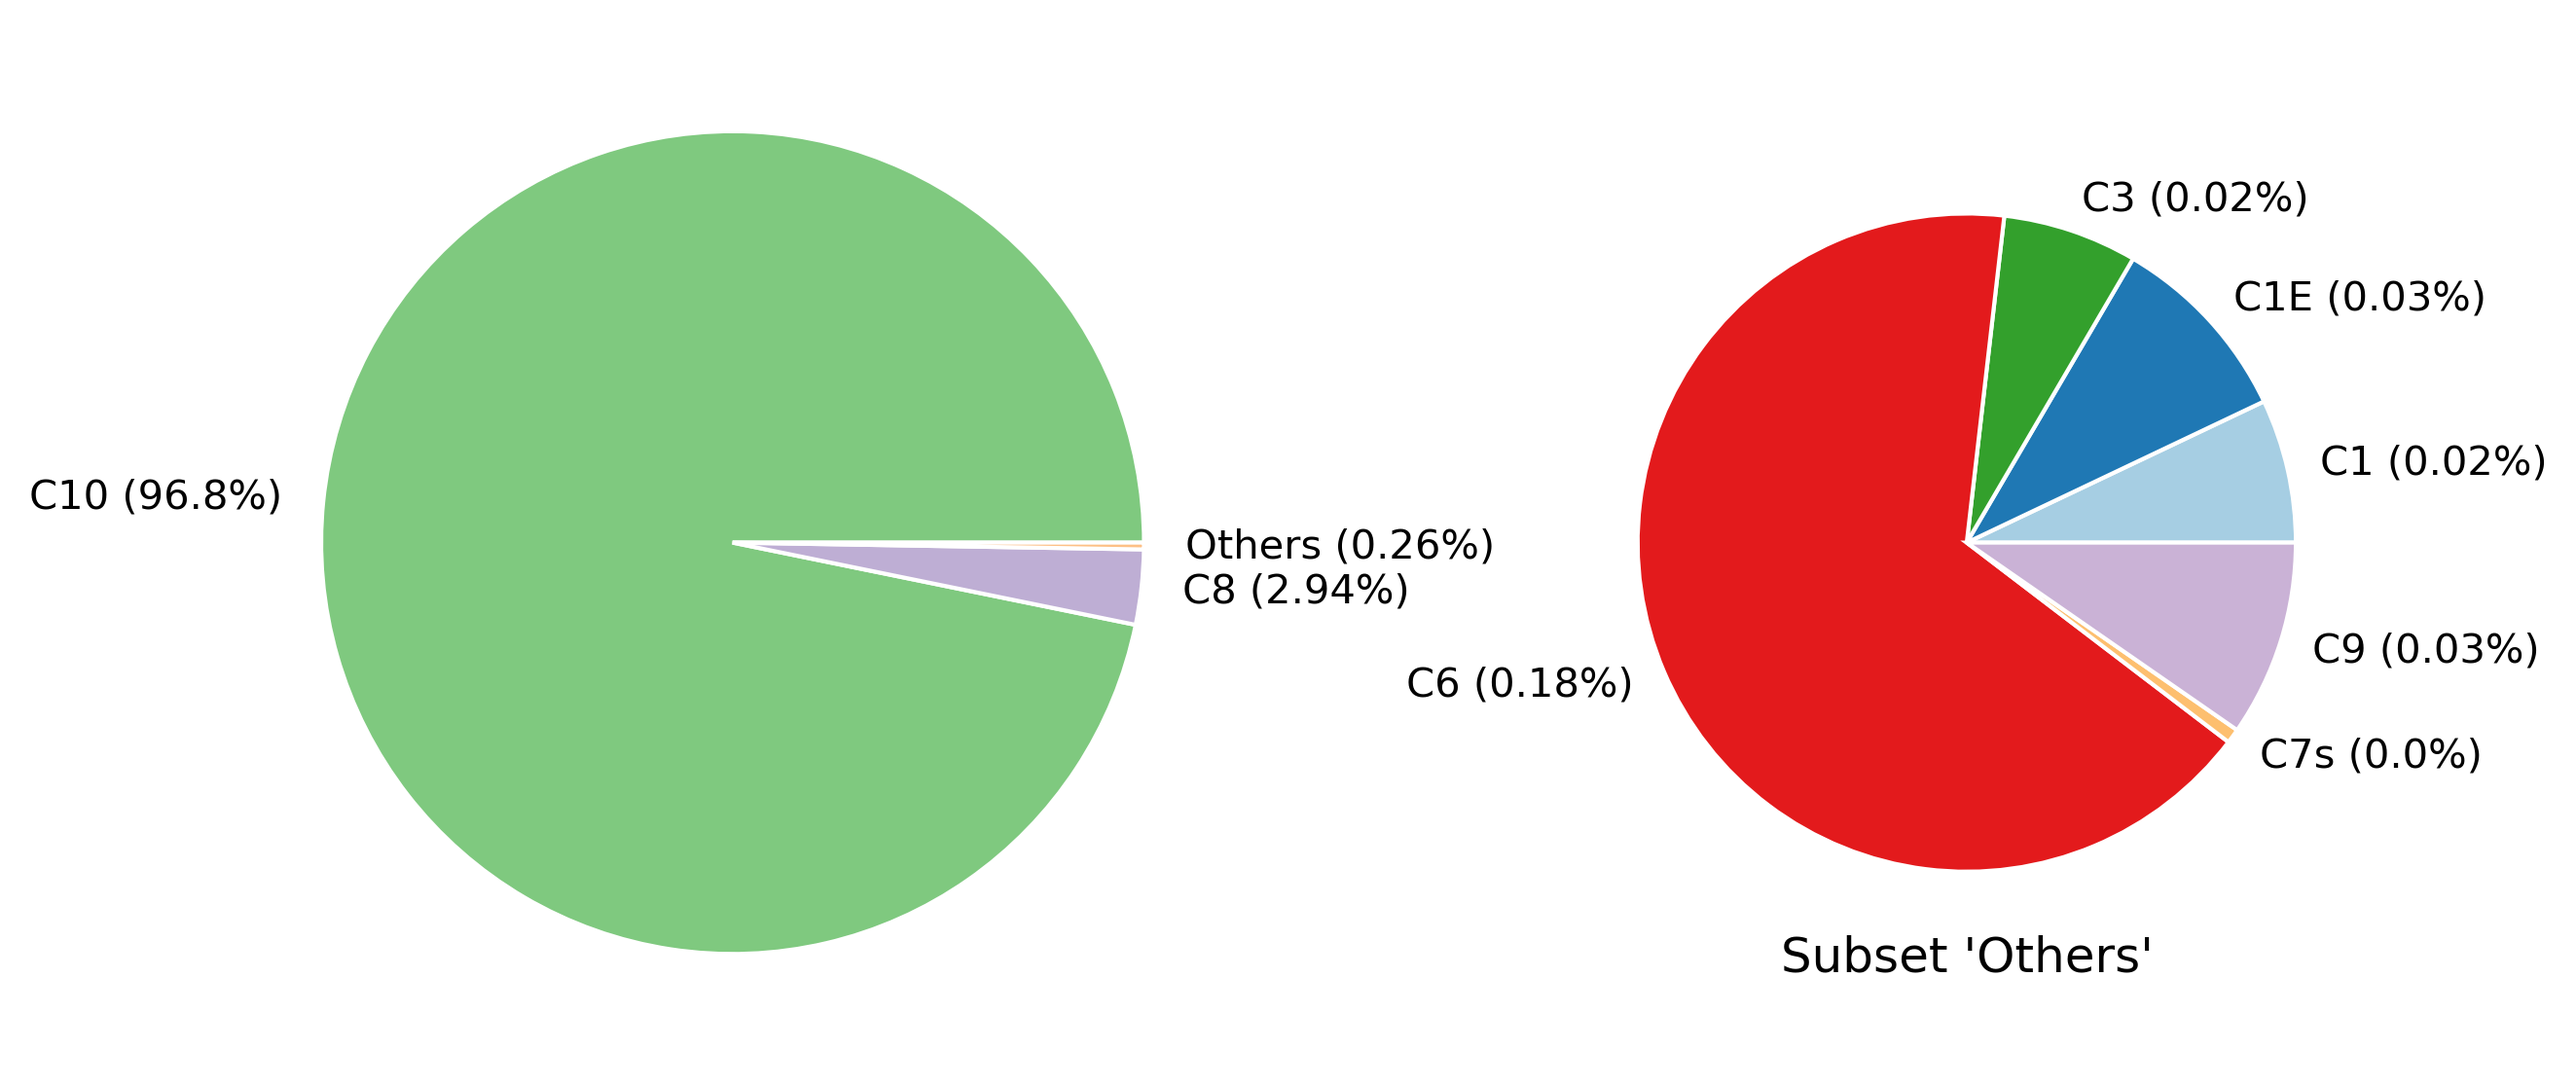
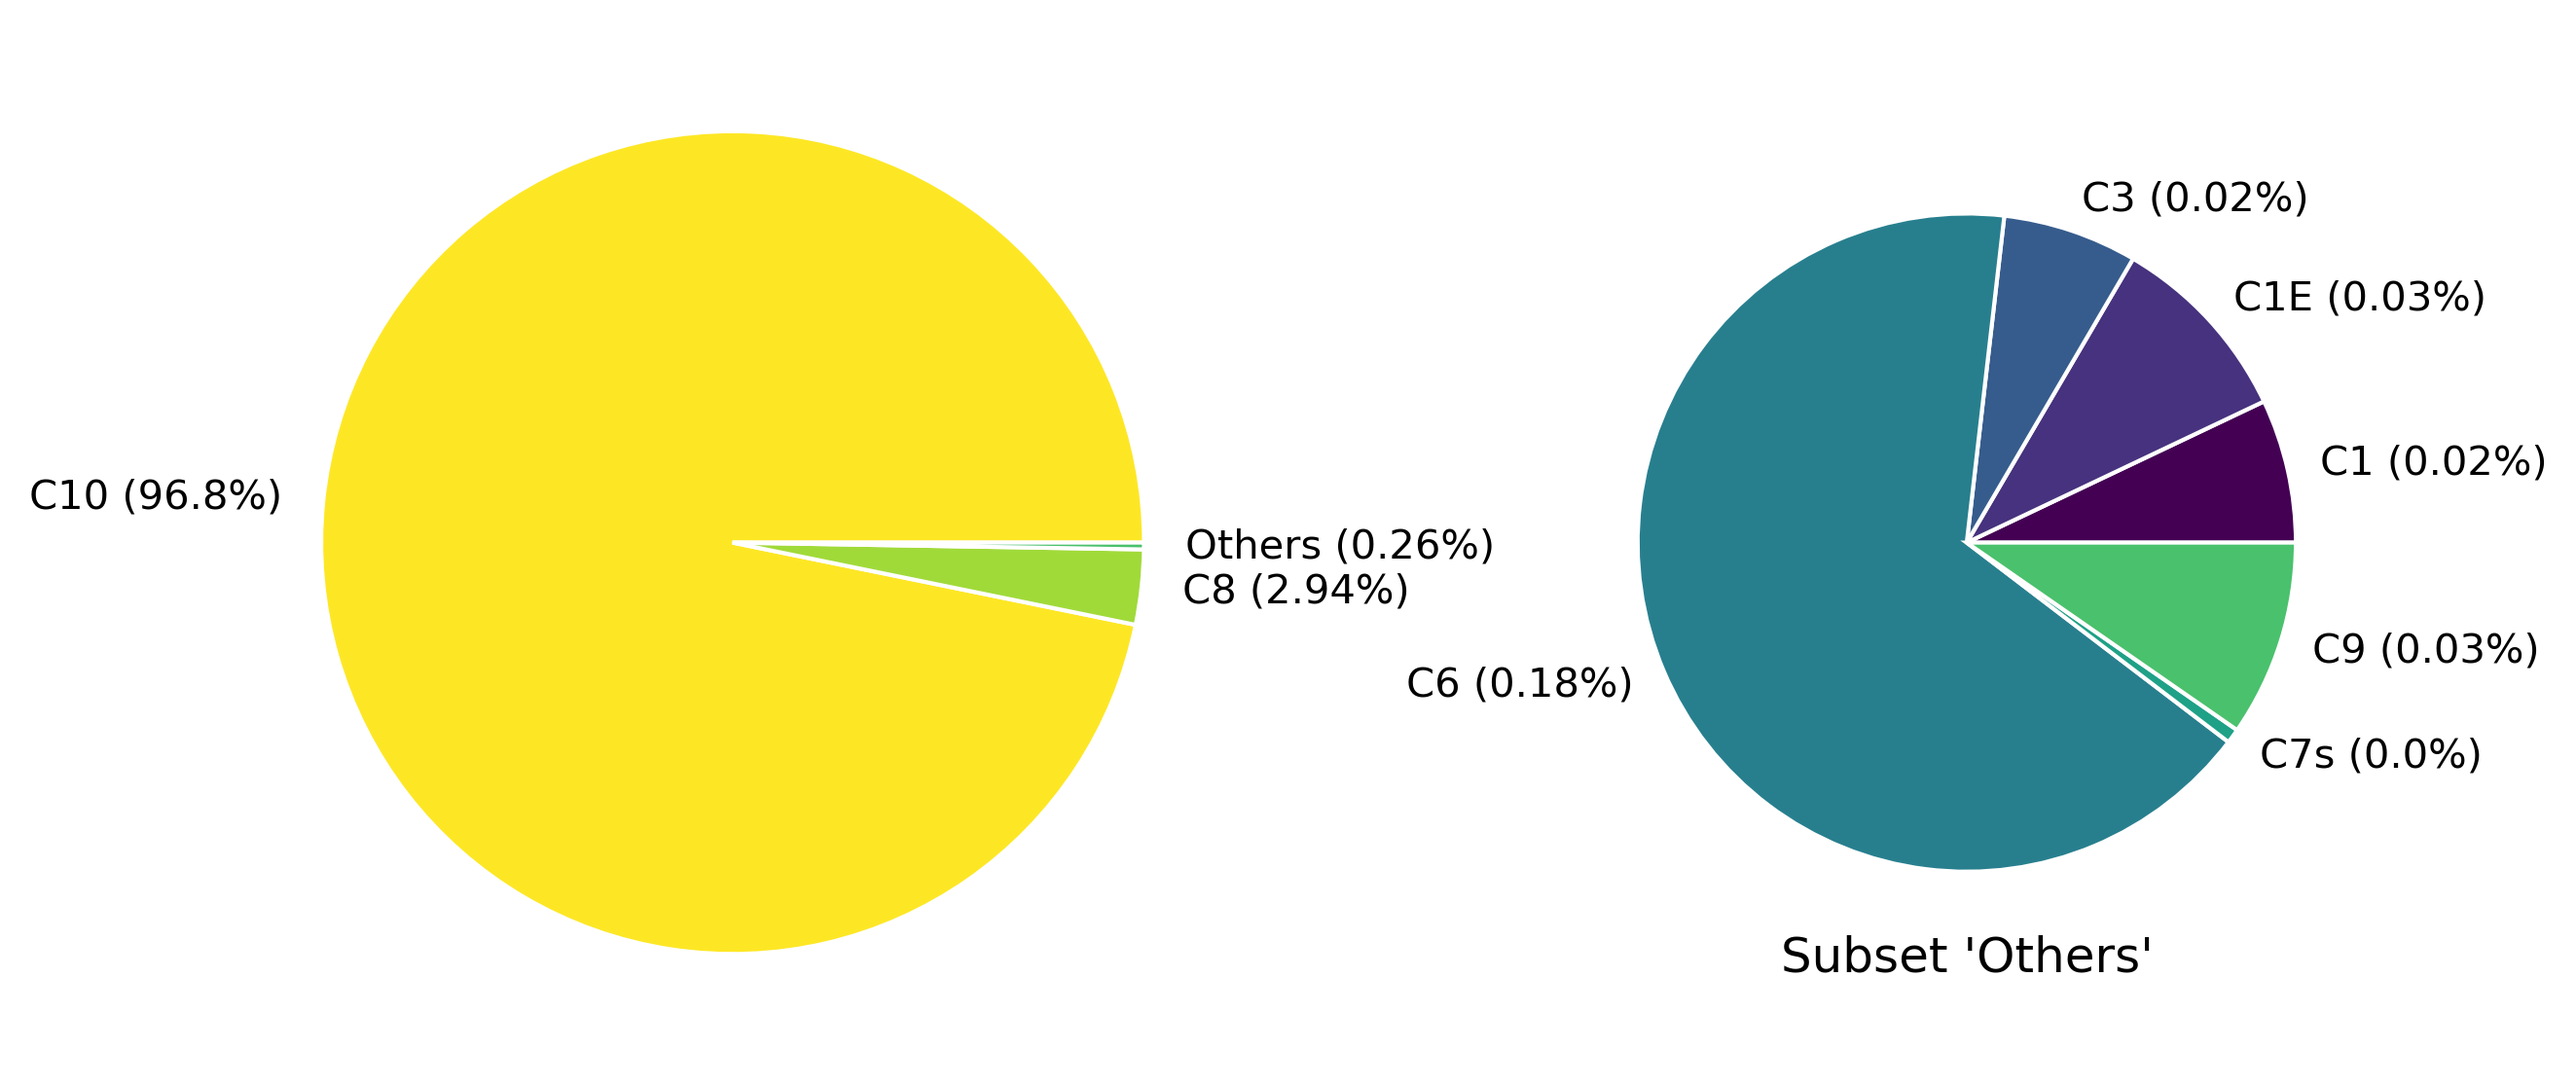
idle-gov: align cmap of pie-time with pie-entry

diff --git a/images/idle-governor/idle-governor-cstate-pie-time.py b/images/idle-governor/idle-governor-cstate-pie-time.py
@@ -25,8 +25,8 @@ with_largest = grouped_data.loc[largest_i]
 with_largest.loc[len(with_largest)] = others_row
 with_largest['Perc'] = (with_largest['Sleep[ns]'] / with_largest['Sleep[ns]'].sum()) * 100
 
-colors1 = plt.get_cmap('Accent')(np.linspace(0, 1, len(grouped_data['C-State'])))
-colors2 = plt.get_cmap('Paired')(np.linspace(0, 1, len(grouped_data['C-State'])))
+colors1 = plt.get_cmap('viridis')(np.linspace(1, 0, len(grouped_data['C-State'])))
+colors2 = plt.get_cmap('viridis')(np.linspace(0, 1, len(grouped_data['C-State'])))
 
 fig, axs = plt.subplots(1, 2, figsize=(10, 30))
 
